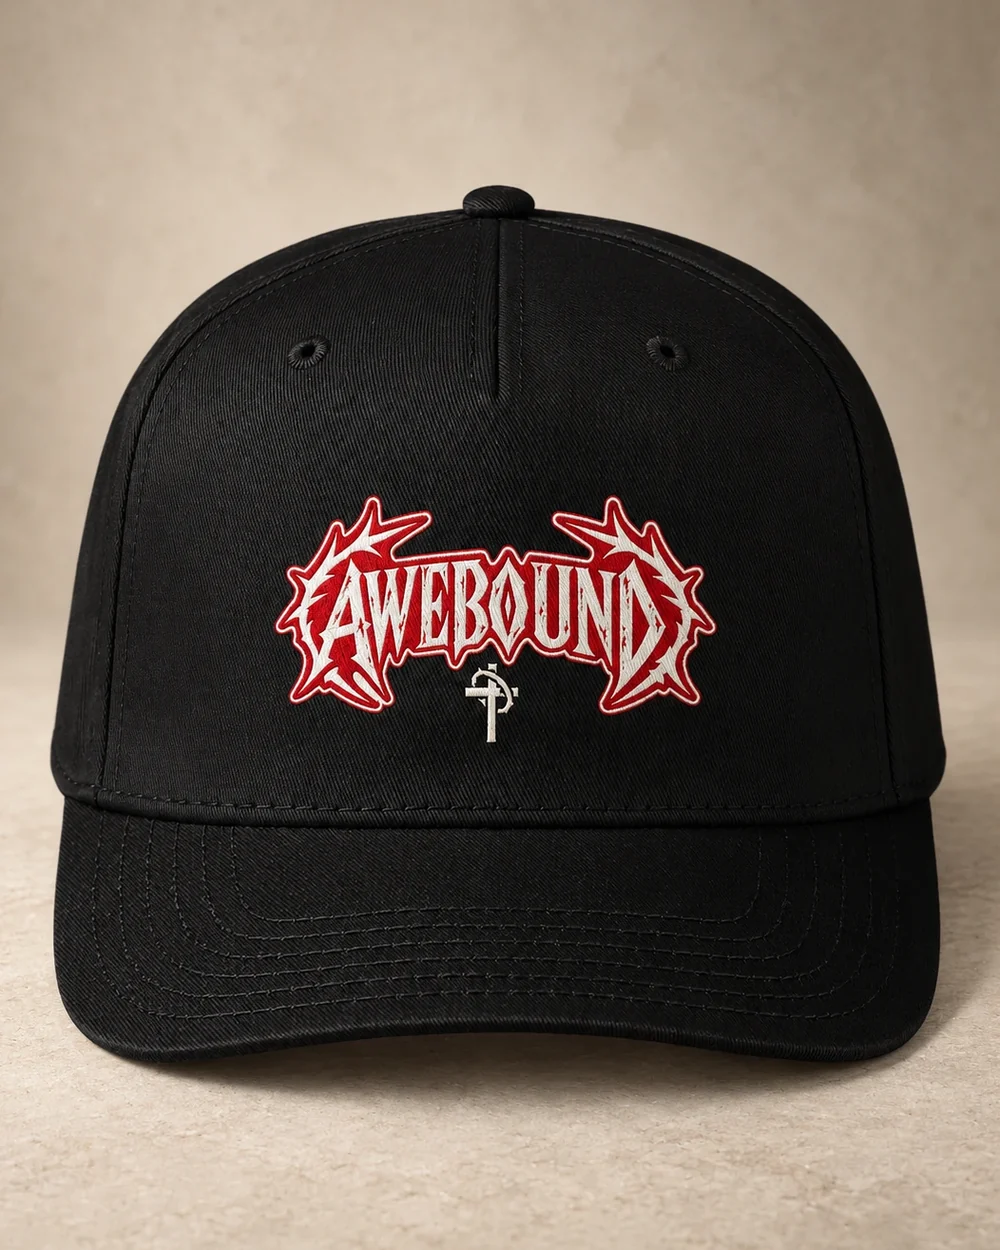
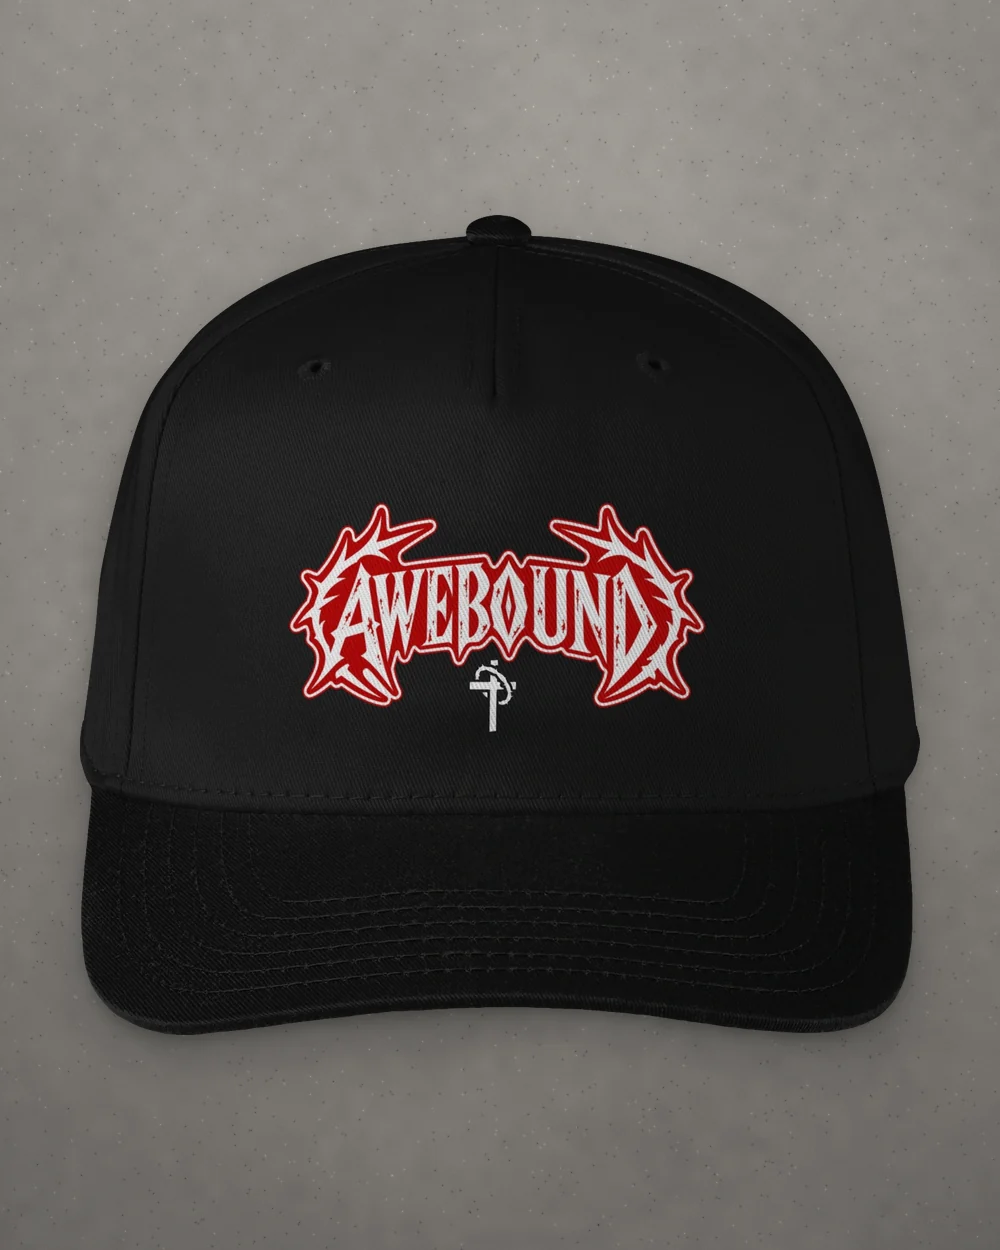
Refresh Fourthwall mockups with one command; caps on their surfaces
- fourthwall.py --sync <piece ...> reads FOURTHWALL_STOREFRONT_TOKEN from
  the environment or apps/web/.env.local, lists the shop's public
  products, rewrites each named piece's image list in fourthwall.json in
  the shop's order and downloads it. An image with transparent corners is
  a render, anything else a photo; views carry over by kind and order,
  with a note when a list changed shape. Both scripts take piece names,
  so only those pieces' files change; the sandbox that wrote this cannot
  reach Fourthwall, so the four edited designs (Stone in Motion, The
  Passage, Torn Veil, Wonderfully Made) wait for that command.
- compose.py reports any photo whose background is far from its piece's
  surface. Only the caps' photos were: they sit on a beige studio
  backdrop. The caps now show their three renders on their own surfaces
  (front, side, back), so every product image shares its piece's
  background; catalog.json lists three images per cap.

Claude-Session: https://claude.ai/code/session_017UyAgwKm2bNAdf5wuWKdba

diff --git a/assets/mockups/fourthwall.py b/assets/mockups/fourthwall.py
@@ -3,11 +3,27 @@ Downloads each product's images from the Fourthwall shop, as listed (in the shop
 fourthwall.json, into fourthwall/<slug>-<n>.webp. Photos are finished images with a background;
 renders are already cut out. compose.py turns them into the site's product images.
 
-    python3 assets/mockups/fourthwall.py
+    python3 assets/mockups/fourthwall.py [piece ...]
+
+When a product's images change in Fourthwall (a design edited, photos replaced), refresh its list
+from the shop, then rebuild its site images (on Windows, `py` instead of `python3`):
+
+    python3 assets/mockups/fourthwall.py --sync stone-in-motion the-passage
+    python3 assets/mockups/compose.py stone-in-motion the-passage
+
+--sync reads FOURTHWALL_STOREFRONT_TOKEN from the environment or apps/web/.env.local, lists the
+shop's public products through the Storefront API, writes each named piece's images into
+fourthwall.json in the shop's order and downloads them. An image with transparent corners is a
+render (a cut-out); anything else is a photo. Views (front, back, side) carry over from the old list
+by kind and order; when a piece's list changed shape it says so, and its views need a look.
+Without piece names, both commands cover every piece in fourthwall.json.
 """
 
 import io
 import json
+import os
+import sys
+import urllib.parse
 import urllib.request
 from pathlib import Path
 
@@ -15,30 +31,141 @@ from PIL import Image
 
 HERE = Path(__file__).parent
 OUT = HERE / "fourthwall"
+MANIFEST = HERE / "fourthwall.json"
+ENV_FILE = HERE.parent.parent / "apps" / "web" / ".env.local"
+API = "https://storefront-api.fourthwall.com/v1"
+KINDS = ("photo", "render")
 
 
 def fetch(url: str) -> bytes:
-    with urllib.request.urlopen(url, timeout=60) as res:
+    request = urllib.request.Request(url, headers={"User-Agent": "awebound-mockups"})
+    with urllib.request.urlopen(request, timeout=60) as res:
         return res.read()
 
 
-def main() -> None:
-    manifest = json.loads((HERE / "fourthwall.json").read_text())
+def source(manifest: dict, item: dict) -> tuple[str, str]:
+    """The entry's kind and full address (entries hold a name under the shop's base, or a URL)."""
+    kind = "photo" if "photo" in item else "render"
+    name = item[kind]
+    return kind, name if name.startswith("http") else manifest[kind + "s"] + name
+
+
+def is_cutout(data: bytes) -> bool:
+    alpha = Image.open(io.BytesIO(data)).convert("RGBA").getchannel("A")
+    w, h = alpha.size
+    return max(alpha.getpixel(p) for p in ((0, 0), (w - 1, 0), (0, h - 1), (w - 1, h - 1))) < 16
+
+
+def save(path: Path, data: bytes, kind: str) -> None:
+    img = Image.open(io.BytesIO(data))
+    if kind == "photo":
+        # Photos arrive as large PNGs; a lossless-looking WebP at full size is a tenth of it.
+        img.convert("RGB").save(path, "WEBP", quality=92, method=6)
+    elif img.format == "WEBP":
+        path.write_bytes(data)
+    else:
+        img.convert("RGBA").save(path, "WEBP", lossless=True, method=6)
+
+
+def write(slug: str, images: list[tuple[bytes, str, str]]) -> None:
+    """Replaces a piece's downloads with these (bytes, kind, view), in order."""
     OUT.mkdir(exist_ok=True)
-    for old in OUT.glob("*.webp"):
+    for old in OUT.glob(f"{slug}-*.webp"):
         old.unlink()
-    for slug, spec in manifest["products"].items():
-        for n, item in enumerate(spec["gallery"], start=1):
-            path = OUT / f"{slug}-{n}.webp"
-            if "photo" in item:
-                # Photos arrive as large PNGs; a lossless-looking WebP at full size is a tenth of it.
-                Image.open(io.BytesIO(fetch(manifest["photos"] + item["photo"]))).convert("RGB").save(
-                    path, "WEBP", quality=92, method=6
-                )
-            else:
-                path.write_bytes(fetch(manifest["renders"] + item["render"]))
-            print(f"{slug}-{n}: {'photo' if 'photo' in item else 'render'}, {item['view']}")
+    for n, (data, kind, view) in enumerate(images, start=1):
+        save(OUT / f"{slug}-{n}.webp", data, kind)
+        print(f"{slug}-{n}: {kind}, {view}")
+
+
+def download(manifest: dict, slugs: list[str]) -> None:
+    for slug in slugs:
+        images = []
+        for item in manifest["products"][slug]["gallery"]:
+            kind, url = source(manifest, item)
+            images.append((fetch(url), kind, item["view"]))
+        write(slug, images)
+
+
+def read_token() -> str:
+    token = os.environ.get("FOURTHWALL_STOREFRONT_TOKEN", "").strip()
+    if not token and ENV_FILE.exists():
+        for line in ENV_FILE.read_text(encoding="utf-8").splitlines():
+            key, _, value = line.partition("=")
+            if key.strip() == "FOURTHWALL_STOREFRONT_TOKEN":
+                token = value.strip().strip("\"'")
+    if not token:
+        sys.exit(
+            "Set FOURTHWALL_STOREFRONT_TOKEN in apps/web/.env.local "
+            "(Fourthwall admin > Settings > For developers)."
+        )
+    return token
+
+
+def shop_products(token: str) -> dict[str, dict]:
+    """The shop's public products by slug."""
+    products: dict[str, dict] = {}
+    for page in range(40):
+        query = urllib.parse.urlencode(
+            {"storefront_token": token, "currency": "USD", "page": page, "size": 50}
+        )
+        body = json.loads(fetch(f"{API}/collections/all/products?{query}"))
+        for item in body.get("results", []):
+            if item.get("type") == "PRODUCT" and item.get("slug"):
+                products[item["slug"]] = item
+        if not body.get("paging", {}).get("hasNextPage"):
+            break
+    return products
+
+
+def carry_views(old: list[dict], kinds: list[str]) -> tuple[list[str], bool]:
+    """The k-th new photo (render) takes the view of the k-th old photo (render). Also says whether
+    the list changed shape, when the views need checking by eye."""
+    previous = {k: [item["view"] for item in old if k in item] for k in KINDS}
+    used = {k: 0 for k in KINDS}
+    views = []
+    for kind in kinds:
+        options = previous[kind]
+        views.append(options[used[kind]] if used[kind] < len(options) else "front")
+        used[kind] += 1
+    return views, kinds != ["photo" if "photo" in item else "render" for item in old]
+
+
+def sync(manifest: dict, slugs: list[str]) -> None:
+    """Rewrites the named pieces' galleries from the shop and downloads them."""
+    shop = shop_products(read_token())
+    for slug in slugs:
+        spec = manifest["products"][slug]
+        product = shop.get(spec["fourthwallSlug"])
+        urls = [img["url"] for img in (product or {}).get("images", []) if img.get("url")]
+        if not urls:
+            print(f"{slug}: {spec['fourthwallSlug']} isn't public in the shop; its images stay as they are")
+            continue
+        data = [fetch(url) for url in urls]
+        kinds = ["render" if is_cutout(d) else "photo" for d in data]
+        views, reshaped = carry_views(spec["gallery"], kinds)
+        gallery = []
+        for url, kind, view in zip(urls, kinds, views):
+            base = manifest[kind + "s"]
+            gallery.append({kind: url[len(base) :] if url.startswith(base) else url, "view": view})
+        spec["gallery"] = gallery
+        write(slug, list(zip(data, kinds, views)))
+        if reshaped:
+            print(f"  {slug}'s image list changed shape: check each `view` in fourthwall.json")
+    MANIFEST.write_text(json.dumps(manifest, indent=2, ensure_ascii=False) + "\n", encoding="utf-8")
+
+
+def main(args: list[str]) -> None:
+    manifest = json.loads(MANIFEST.read_text(encoding="utf-8"))
+    syncing = "--sync" in args
+    slugs = [a for a in args if a != "--sync"] or list(manifest["products"])
+    unknown = [s for s in slugs if s not in manifest["products"]]
+    if unknown:
+        sys.exit(f"Not in fourthwall.json: {', '.join(unknown)}")
+    if syncing:
+        sync(manifest, slugs)
+    else:
+        download(manifest, slugs)
 
 
 if __name__ == "__main__":
-    main()
+    main(sys.argv[1:])

diff --git a/assets/mockups/compose.py b/assets/mockups/compose.py
@@ -17,9 +17,13 @@ reads as one set. Each piece gets its own surface: a color drawn from its artwor
 spotlight, or a shaft of light). The garments, prints and colors are left exactly as they are in
 the renders and mockups.
 
-    python3 assets/mockups/compose.py
+    python3 assets/mockups/compose.py [piece ...]
 
-When a product's images change in Fourthwall, update fourthwall.json and run fourthwall.py first.
+When a product's images change in Fourthwall, refresh them first with
+`python3 assets/mockups/fourthwall.py --sync <piece ...>` (see fourthwall.py), then run this with
+the same pieces, so only their images are rewritten. A photo whose background is far from its
+piece's surface is reported: the gallery would not read as one set, so replace that photo in
+Fourthwall or take it out of fourthwall.json.
 """
 
 from pathlib import Path
@@ -362,8 +366,26 @@ def plates(slug: str) -> None:
     piece(slug).save(folder / "piece.webp", "WEBP", quality=80, method=6)
 
 
-def main() -> None:
-    for slug, spec in VIEWS.items():
+def check_photo(slug: str, name: str, img: Image.Image) -> None:
+    """Prints a photo whose edges differ clearly from the piece's own surface."""
+    band = 48
+
+    def edge(a: np.ndarray) -> np.ndarray:
+        return np.concatenate(
+            [a[:band].reshape(-1, 3), a[-band:].reshape(-1, 3), a[:, :band].reshape(-1, 3), a[:, -band:].reshape(-1, 3)]
+        ).mean(0)
+
+    photo_edge = edge(np.asarray(img, np.float32))
+    surface_edge = edge(np.asarray(to_image(backdrop(slug, W, H)), np.float32))
+    gap = float(np.linalg.norm(photo_edge - surface_edge))
+    if gap > 40:
+        rgb = lambda c: "(" + ", ".join(str(round(v)) for v in c) + ")"
+        print(f"photo {slug}/{name}: background {rgb(photo_edge)} vs surface {rgb(surface_edge)}, off by {gap:.0f}")
+
+
+def main(slugs: list[str]) -> None:
+    for slug in slugs:
+        spec = VIEWS[slug]
         folder = OUT / slug
         folder.mkdir(parents=True, exist_ok=True)
         for old in folder.glob("*.webp"):
@@ -378,6 +400,7 @@ def main() -> None:
                 source = RENDERS / f"{slug}-{n}.webp"
                 if "photo" in item:
                     img = photo(source)
+                    check_photo(slug, f"{n}.webp", img)
                 else:
                     img = place_garment(trimmed(Image.open(source).convert("RGBA")))
                 img.save(folder / f"{n}.webp", "WEBP", quality=86, method=6)
@@ -395,4 +418,11 @@ def main() -> None:
 if __name__ == "__main__":
     import sys
 
-    check_plates() if sys.argv[1:] == ["plates"] else main()
+    args = sys.argv[1:]
+    if args == ["plates"]:
+        check_plates()
+    else:
+        unknown = [a for a in args if a not in VIEWS]
+        if unknown:
+            sys.exit(f"Unknown piece: {', '.join(unknown)}")
+        main(args or list(VIEWS))
